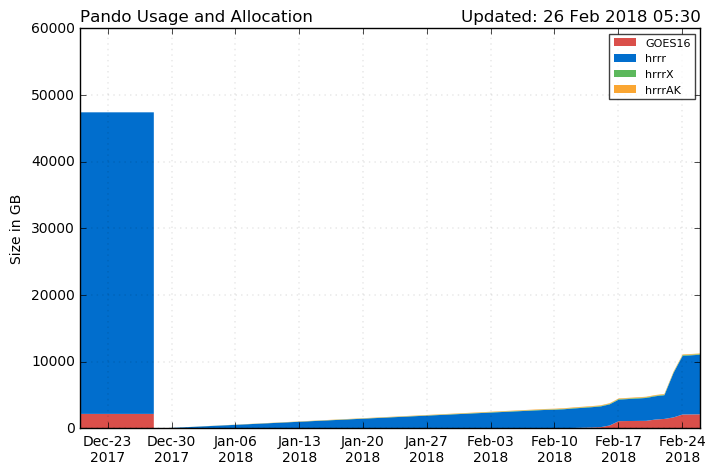
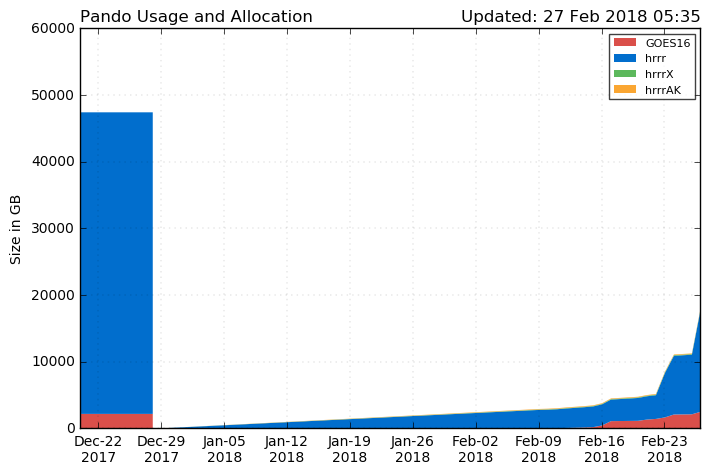
updates

Changed region(s): [[0.031, 0.0, 0.9915, 0.9747], [0.8366, 0.827, 0.9296, 0.8565], [0.0, 0.5021, 0.031, 0.5316]]

diff --git a/hrrr_custom.html b/hrrr_custom.html
@@ -193,37 +193,56 @@
     <div class="input-group" data-toggle="tooltip" title="Hold ctrl to select multiple layers">
             <span class="input-group-addon"><i class="fa fa-map-signs fa-fw"></i></span>
             <select multiple class="form-control" id="plotcode" size=8>
-                <option selected value='10mWind_Fill'>10 m Wind: Fill</option>
-                <option value='10mWind_Shade'>10 m Wind: High Winds</option>
-                <option value='10mWind_Barb'>10 m Wind: Barbs</option>
-                <option value='80mWind_Fill'>80 m Wind: Fill</option>
-                <option value='80mWind_Shade'>80 m Wind: High Winds</option>
-                <option value='80mWind_Barb'>80 m Wind: Barbs</option>
-                <option value='Gust_Hatch'>Surface Gust: Hatch</option>
-                <option value='dBZ_Fill'>Radar Simulated: Fill</option>
-                <option value='dBZ_Contour'>Radar Simulated: Contour</option>
-                <option value='2mTemp_Fill'>2 m Temperature: Fill</option>
-                <option value='2mTemp_Freeze'>2 m Temperature: 0&degC Line</option>
-                <option value='2mRH_Fill'>2 m Relative Humidity: Fill</option>
-                <option value='CAPE_Fill'>CAPE Surface: Fill</option>
-                <option value='CIN_Fill'>CIN Surface: Fill</option>
-                <option value='700Temp_Fill'>700 mb Temperature: Fill</option>
-                <option value='700Temp_-12c'>700 mb Temperature: -12&degC Line</option>
-                <option value='500HGT_Contour'>500 mb Height: Contour</option>
-                <option value='500Vort_Fill'>500 mb Vorticity: Fill</option>
-                <option value='500Conv_Fill'>500 mb Convergence: Fill</option>
-                <option value='500Wind_Fill'>500 mb Wind: Fill</option>
-                <option value='500Wind_Barb'>500 mb Wind: Barb</option>
-                <option value='MSLP_Contour'>Mean Sea Level: Contour</option>
-                <option value='MSLP_Fill'>Mean Sea Level: Fill</option>
-                <option value='2mPOT_Fill'>2 m Potential Temperature: Fill</option>
-                <option value='SkinTemp_Fill'>Skin Temperature: Fill</option>
-                <option value='AccumPrecip_Fill'>Precipitation, Accumulated: Fill</option>
-                <option value='1hrPrecip_Fill'>Precipitation, 1 Hour: Fill</option>
-                <option value='SnowCover_Fill'>Snow Cover: Fill</option>
-                <option value='RedFlag_Fill'>Red Flag Criteria: Fill</option>
-                <option value='RedFlag_Contour'>Red Flag Criteria: Contour</option>
-                <option value='RedFlagPot_Fill'>Red Flag Potential: Fill</option>
+                <optgroup label="Near Surface Winds">
+                    <option selected value='10mWind_Fill'>10 m Wind: Fill</option>
+                    <option value='10mWind_Shade'>10 m Wind: High Winds</option>
+                    <option value='10mWind_Barb'>10 m Wind: Barbs</option>
+                    <option value='10mWind_Quiver'>10 m Wind: Quiver</option>
+                    <option value='80mWind_Fill'>80 m Wind: Fill</option>
+                    <option value='80mWind_Shade'>80 m Wind: High Winds</option>
+                    <option value='80mWind_Barb'>80 m Wind: Barbs</option>
+                    <option value='80mWind_Quiver'>80 m Wind: Quiver</option>
+                    <option value='Gust_Hatch'>Surface Gust: Hatch</option>
+                </optgroup>
+                <optgroup label="Reflectivity">
+                    <option value='dBZ_Fill'>Radar Simulated: Fill</option>
+                    <option value='dBZ_Contour'>Radar Simulated: Contour</option>
+                </optgroup>
+                <optgroup label='Surface Level'>
+                    <option value='2mTemp_Fill'>2 m Temperature: Fill</option>
+                    <option value='2mTemp_Freeze'>2 m Temperature: 0&degC Line</option>
+                    <option value='2mRH_Fill'>2 m Relative Humidity: Fill</option>
+                    <option value='SkinTemp_Fill'>Skin Temperature: Fill</option>
+                    <option value='AccumPrecip_Fill'>Precipitation, Accumulated: Fill</option>
+                    <option value='1hrPrecip_Fill'>Precipitation, 1 Hour: Fill</option>
+                    <option value='SnowCover_Fill'>Snow Cover: Fill</option>
+                </optgroup>
+                <optgroup label='Stability'>
+                    <option value='CAPE_Fill'>CAPE Surface: Fill</option>
+                    <option value='CIN_Fill'>CIN Surface: Fill</option>
+                </optgroup>
+                <optgroup label='700 mb'>
+                    <option value='700Temp_Fill'>700 mb Temperature: Fill</option>
+                    <option value='700Temp_-12c'>700 mb Temperature: -12&degC Line</option>
+                </optgroup>
+                <optgroup label='500 mb'>
+                    <option value='500HGT_Contour'>500 mb Height: Contour</option>
+                    <option value='500Vort_Fill'>500 mb Vorticity: Fill</option>
+                    <option value='500Conv_Fill'>500 mb Convergence: Fill</option>
+                    <option value='500Wind_Fill'>500 mb Wind: Fill</option>
+                    <option value='500Wind_Barb'>500 mb Wind: Barb</option>
+                    <option value='500Wind_Quiver'>500 mb Wind: Quiver</option>
+                </optgroup>
+                <optgroup label='Seal Level'>
+                    <option value='MSLP_Contour'>Mean Sea Level: Contour</option>
+                    <option value='MSLP_Fill'>Mean Sea Level: Fill</option>
+                    <option value='2mPOT_Fill'>2 m Potential Temperature: Fill</option>
+                </optgroup>
+                <optgroup label='Red Flag'>
+                    <option value='RedFlag_Fill'>Red Flag Criteria: Fill</option>
+                    <option value='RedFlag_Contour'>Red Flag Criteria: Contour</option>
+                    <option value='RedFlagPot_Fill'>Red Flag Potential: Fill</option>
+                </optgroup>
             </select>
     </div>
    
@@ -324,11 +343,12 @@
     </a>
     <br>
     <p>Wind Barbs (if present): half=2.5, full=5, flag=25 m s<sup>-1</sup>
-    <p><a data-toggle="modal" data-target="#myModal">Landuse Legend</a>
+    <p><a data-toggle="modal" data-target="#LUmodal">Landuse Legend</a>
+    <p><a data-toggle="modal" data-target="#RFmodal">Red Flag Legend</a>
 
     <p><a href="#" id='dwnldGRIB2' class="btn btn-default" role="button"><i class="fa fa-download"></i> GRIB2</a>
 
-    <!-- Accordian Advanced Options-->
+    <!-- Accordion Advanced Options-->
     <div class="panel-group">
         <div class="panel panel-default">
             <div class="panel-heading">
@@ -362,8 +382,8 @@
 </center>
 <br>
 
-<!-- Landuse Modal -->
-<div class="modal fade" id="myModal" role="dialog">
+<!-- Landuse Legend Modal -->
+<div class="modal fade" id="LUmodal" role="dialog">
     <div class="modal-dialog">
     
       <!-- Modal content-->
@@ -378,7 +398,28 @@
       
     </div>
   </div>
-<!-- end landuse Modal -->
+<!-- end landuse legend Modal -->
+
+<!-- Red Flag Legend Modal -->
+<div class="modal fade" id="RFmodal" role="dialog">
+    <div class="modal-dialog">
+    
+      <!-- Modal content-->
+      <div class="modal-content">
+        <div class="modal-body">
+          <center>
+              <img src="./images/red_flag_criteria.png">
+              <img src="./images/red_flag_potential.png">
+          </center>
+        </div>
+        <div class="modal-footer">
+          <button type="button" class="btn btn-default" data-dismiss="modal">Close</button>
+        </div>
+      </div>
+      
+    </div>
+  </div>
+<!-- end Red Flag legend Modal -->
 
 <script>
 $(document).ready(function(){

diff --git a/hrrr_fires.html b/hrrr_fires.html
@@ -60,7 +60,7 @@ This page is created dynamically in the scirpt /oper/HRRR_fires/manager.py
         <li><a href="http://home.chpc.utah.edu/~u0553130/Brian_Blaylock/cgi-bin/hrrr_fires_alert.cgi?fire=KNOB HILL">Past Wind Events</a></li>
         </ul>
         </div>
-        </div></td><td>Not Reported</td> <td>2,896</td><td>Not Reported</td></tr><tr><td>
+        </div></td><td>Arizona</td> <td>2,896</td><td>10-Feb-18</td></tr><tr><td>
         <div class="btn-group" role="group" aria-label="..." style="padding-bottom:3px">
         <a href="http://home.chpc.utah.edu/~u0553130/oper/HRRR_fires/PLEASANT/photo_viewer_fire.php" type="button" class="btn btn-warning" style="width:175px"><b><i class="fab fa-gripfire"></i> PLEASANT</b></a>  <div class="btn-group" role="group">
         <button type="button" class="btn btn-warning dropdown-toggle" data-toggle="dropdown" aria-haspopup="true" aria-expanded="false">
@@ -73,7 +73,7 @@ This page is created dynamically in the scirpt /oper/HRRR_fires/manager.py
         <li><a href="http://home.chpc.utah.edu/~u0553130/Brian_Blaylock/cgi-bin/hrrr_fires_alert.cgi?fire=PLEASANT">Past Wind Events</a></li>
         </ul>
         </div>
-        </div></td><td>California</td> <td>2,070</td><td>19-Feb-18</td></tr><tr><td>
+        </div></td><td>Not Reported</td> <td>2,070</td><td>Not Reported</td></tr><tr><td>
         <div class="btn-group" role="group" aria-label="..." style="padding-bottom:3px">
         <a href="http://home.chpc.utah.edu/~u0553130/oper/HRRR_fires/RED_HORSE/photo_viewer_fire.php" type="button" class="btn btn-warning" style="width:175px"><b><i class="fab fa-gripfire"></i> RED HORSE</b></a>  <div class="btn-group" role="group">
         <button type="button" class="btn btn-warning dropdown-toggle" data-toggle="dropdown" aria-haspopup="true" aria-expanded="false">
@@ -117,7 +117,7 @@ This page is created dynamically in the scirpt /oper/HRRR_fires/manager.py
     <p><a class='btn btn-default' style='width:100%' href="https://rmgsc.cr.usgs.gov/outgoing/GeoMAC/ActiveFirePerimeters.kml" target="_blank">Active Fire KMZ USGS <i class="fa fa-external-link-alt"></i></a>
     <p><a class='btn btn-default' style='width:100%' href="https://earthdata.nasa.gov/earth-observation-data/near-real-time/firms/active-fire-data" target="_blank">Active Fire KMZ EarthData <i class="fa fa-external-link-alt"></i></a>
     <p><a class='btn btn-success' style='width:100%' href="https://rmgsc.cr.usgs.gov/outgoing/GeoMAC/current_year_fire_data/current_year_all_states/" target="_blank">Active Fire Perimeter ShapeFile <i class="fa fa-external-link-alt"></i></a>
-    <p><a class='btn btn-success' style='width:100%' href="https://fsapps.nwcg.gov/afm/data/lg_fire/lg_fire_info_2018-02-26.txt" target="_blank">Active Fire Text <i class="fa fa-external-link-alt"></i></a>
+    <p><a class='btn btn-success' style='width:100%' href="https://fsapps.nwcg.gov/afm/data/lg_fire/lg_fire_info_2018-02-27.txt" target="_blank">Active Fire Text <i class="fa fa-external-link-alt"></i></a>
     </div>
 </center>
 </div>

diff --git a/Pando_archive/index.html b/Pando_archive/index.html
@@ -37,12 +37,12 @@
         </div>
   <br>
   <script src='./js/pando_status.js'></script>
-    <center><font size=12> 11.3 TB out of 60 TB</font>
+    <center><font size=12> 18.3 TB out of 60 TB</font>
     <div class="progress" style="max-width:700px;height:35px">
             <div class="progress-bar progress-bar-danger" role="progressbar" style="width:4%">
               <font size=4></font>
             </div>
-            <div class="progress-bar progress-bar-primary" role="progressbar" style="width:15%">
+            <div class="progress-bar progress-bar-primary" role="progressbar" style="width:26%">
               <font size=4></font>
             </div>
             <div class="progress-bar progress-bar-success" role="progressbar" style="width:0%">
@@ -64,9 +64,9 @@
         <th style='text-align:center'>Estimated Full Date</th>
       </tr>
       <tr>
-        <td>80.47 GB</td>
-        <td>745</td>
-        <td>12 March 2020</td>
+        <td>6981.90 GB</td>
+        <td>8</td>
+        <td>07 March 2018</td>
       </tr>
     </table>
     <table class="table table-bordered" style='text-align:center;max-width:700px'>
@@ -80,14 +80,14 @@
       <tr>
         <th>sfc</th>
         <td>--</td>
-        <td>22.88</td>
-        <td>0.97</td>
-        <td>0.26</td>
+        <td>22.76</td>
+        <td>1.17</td>
+        <td>0.27</td>
       </tr>
       <tr>
         <th>prs</th>
         <td>--</td>
-        <td>3.68</td>
+        <td>3.59</td>
         <td>0.00</td>
         <td>0.00</td>
       </tr>
@@ -100,10 +100,10 @@
       </tr>
       <tr>
         <th>Total</th>
-        <th>14.9 GB</th>
-        <th>26.56 GB</th>
-        <th>0.97 GB</th>
-        <th>0.26 GB</th>
+        <th>387.2 GB</th>
+        <th>26.36 GB</th>
+        <th>1.17 GB</th>
+        <th>0.27 GB</th>
       </tr>
     </table>
 

diff --git a/hrrr_FAQ.html b/hrrr_FAQ.html
@@ -338,10 +338,20 @@
             </ol>
             <p> This archive allows us to perform analysis of the HRRR model
                 performance, independent of the ESRL folks, for our own research purposes and goals.
+            <p>Archive methods are becoming more important with increasing
+               requirements by funding agencies to maintain archives of the
+               data used in research grants. The University of Utah is setting
+               up a framework for handling such requirements through what they
+               call <a href="https://hive.utah.edu/concern/generic_works/j9602061v">The Hive</a>.
+               This HRRR archive was used as a test case for how that framework can be
+               used for very large data sets.
+            <p>In the future, the HRRR may be archived as part of NOAA's Big
+               Data Project. This will lead to additional uses of model forecasts
+               and analyses in cloud computing environments.               
             <br>
             <p> You are welcome to use the archive for your own research, but
                 as a courtesy, please register and read the "Best Practices" 
-                document before downloading from the archive.
+                document before downloading from the archive.                
             <hr>
             <h3>Where else can I find archived HRRR data?</h3>
             <ul>

diff --git a/index.html b/index.html
@@ -338,10 +338,20 @@
             </ol>
             <p> This archive allows us to perform analysis of the HRRR model
                 performance, independent of the ESRL folks, for our own research purposes and goals.
+            <p>Archive methods are becoming more important with increasing
+               requirements by funding agencies to maintain archives of the
+               data used in research grants. The University of Utah is setting
+               up a framework for handling such requirements through what they
+               call <a href="https://hive.utah.edu/concern/generic_works/j9602061v">The Hive</a>.
+               This HRRR archive was used as a test case for how that framework can be
+               used for very large data sets.
+            <p>In the future, the HRRR may be archived as part of NOAA's Big
+               Data Project. This will lead to additional uses of model forecasts
+               and analyses in cloud computing environments.               
             <br>
             <p> You are welcome to use the archive for your own research, but
                 as a courtesy, please register and read the "Best Practices" 
-                document before downloading from the archive.
+                document before downloading from the archive.                
             <hr>
             <h3>Where else can I find archived HRRR data?</h3>
             <ul>

diff --git a/hrrr_golf.html b/hrrr_golf.html
@@ -38,11 +38,13 @@
 
 <center>
 <div id="container">
-
+    
 <div class='row'>
 
   <div class='col-md-4 col-sm-offset-2'>
-      <div class="panel panel-primary" style="max-width:450px">
+      <br>
+
+    <div class="panel panel-primary" style="max-width:450px">
         <div class="panel-heading">
           <h3 class="panel-title">MesoWest Stations</h3>
         </div>
@@ -52,6 +54,7 @@
   var NAME = ['Alta Top',
               'Antelope Island',
               'Bonneville Salt Flats',
+              'Ephraim',
               'Flight Park South',
               'Fremont Island',
               'Gunnison Island',
@@ -67,6 +70,7 @@
   var ID = ['ALT',
             'UFD09',
             'BFLAT',
+            'EPMU1',
             'FPS',
             'FREUT',
             'GNI',
@@ -103,8 +107,9 @@
     ')
   }
 </script>
-  </div>
-
+  
+</div>
+<br>
 
 
   <div class='col-md-4'>
